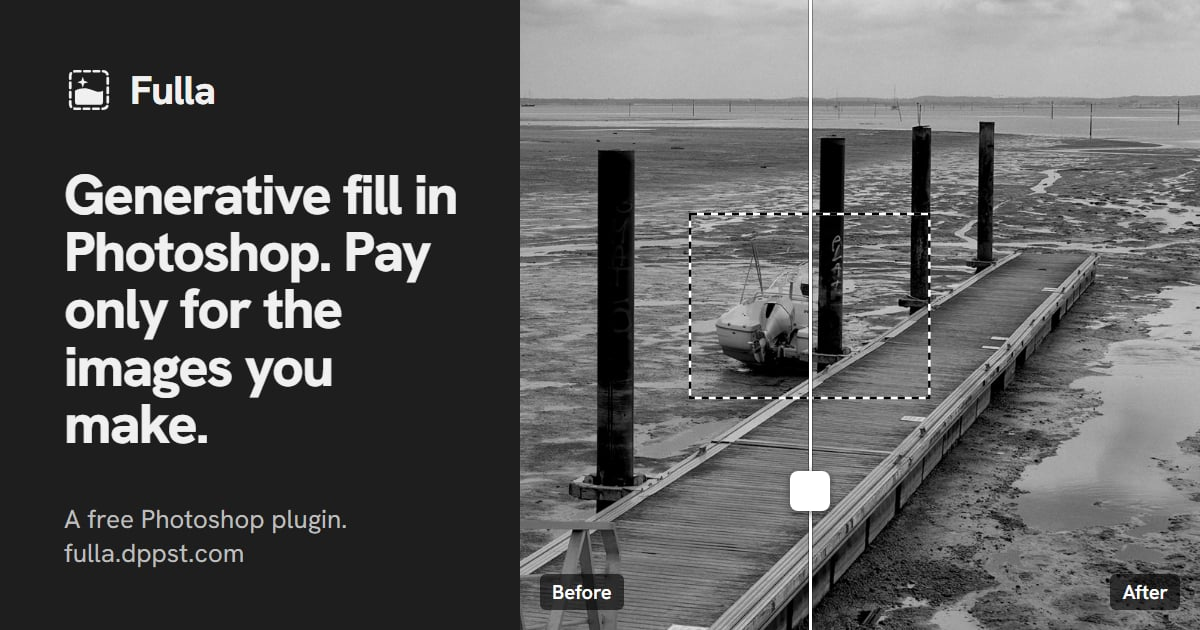
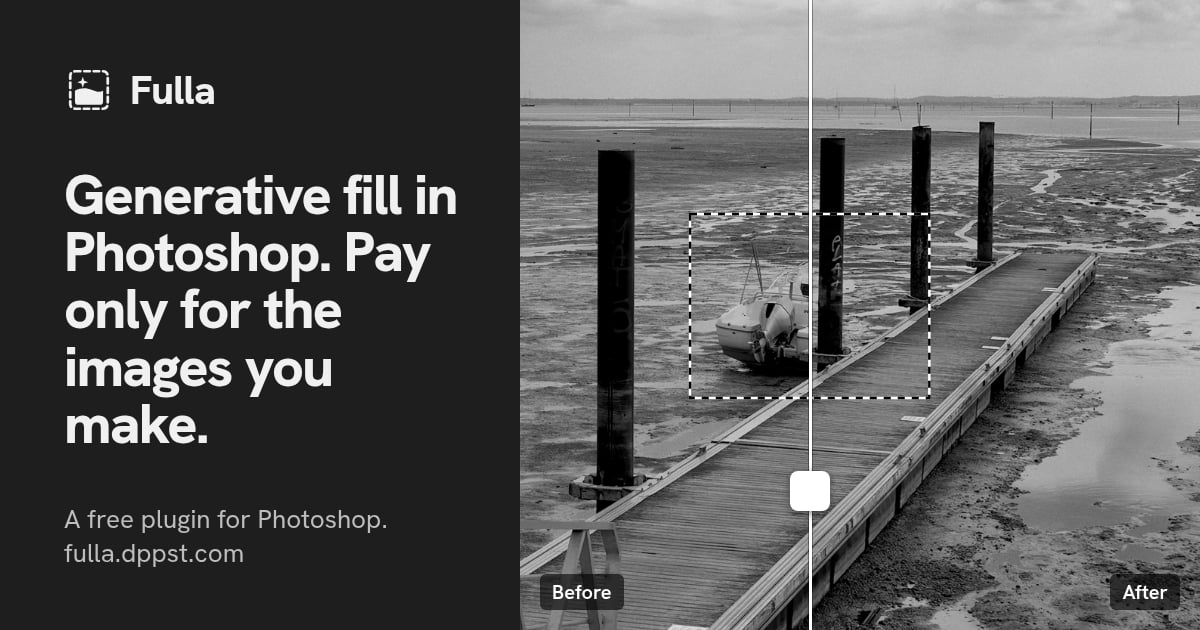
docs(site): say "plugin for Photoshop", as Adobe's branding rules ask

diff --git a/site/src/pages/llms.txt.ts b/site/src/pages/llms.txt.ts
@@ -9,7 +9,7 @@ export const GET: APIRoute = async () => {
 	const lines = [
 		'# Fulla',
 		'',
-		'> Fulla is a free, open-source Photoshop plugin for generative fill. Select an area, say what you want, click Generate, as with Photoshop\'s own generative fill. It uses your own account with an AI service (OpenRouter, Google or OpenAI) and you pay that service per image: no subscription, no credits. MIT licence.',
+		'> Fulla is a free, open-source generative fill plugin for Photoshop. Select an area, say what you want, click Generate, as with Photoshop\'s own generative fill. It uses your own account with an AI service (OpenRouter, Google or OpenAI) and you pay that service per image: no subscription, no credits. MIT licence.',
 		'',
 		`The whole guide in one file: ${SITE}/llms-full.txt`,
 		'',

diff --git a/site/scripts/og.html b/site/scripts/og.html
@@ -35,7 +35,7 @@ p { margin: 0; font-size: 26px; color: #bdbdbd; }
 <div class="text">
 <div class="brand"><svg viewBox="0 0 64 64"><rect x="8" y="8" width="48" height="48" rx="6" fill="none" stroke="#f0f0f0" stroke-width="3.5" stroke-dasharray="7 5" stroke-linecap="round"/><path d="M14 33c8-4 14-4 22-1s10 3 14 1v14a4 4 0 0 1-4 4H18a4 4 0 0 1-4-4z" fill="#f0f0f0"/><path d="M24 15l1.8 5.2L31 22l-5.2 1.8L24 29l-1.8-5.2L17 22l5.2-1.8z" fill="#f0f0f0"/></svg>Fulla</div>
 <h1>Generative fill in Photoshop. Pay only for the images you make.</h1>
-<p>A free Photoshop plugin.<br>fulla.dppst.com</p>
+<p>A free plugin for Photoshop.<br>fulla.dppst.com</p>
 </div>
 <div class="photo">
 <img src="../src/assets/examples/a1-apres.jpg" alt="">

diff --git a/site/src/pages/llms-full.txt.ts b/site/src/pages/llms-full.txt.ts
@@ -6,7 +6,7 @@ import { docsInOrder } from '../lib/docs-order';
 
 export const GET: APIRoute = async () => {
 	const docs = docsInOrder(await getCollection('docs'));
-	const intro = '# Fulla, the complete guide\n\nFulla is a free, open-source Photoshop plugin for generative fill, paid per image to the AI service you connect. Every page of the guide follows.\n';
+	const intro = '# Fulla, the complete guide\n\nFulla is a free, open-source generative fill plugin for Photoshop, paid per image to the AI service you connect. Every page of the guide follows.\n';
 	const body = [intro, ...docs.map(pageMarkdown)].join('\n---\n\n');
 	return new Response(body, { headers: { 'Content-Type': 'text/plain; charset=utf-8' } });
 };

diff --git a/site/src/pages/nano-banana-in-photoshop.md b/site/src/pages/nano-banana-in-photoshop.md
@@ -14,7 +14,7 @@ Adobe offers Nano Banana 2 and Nano Banana Pro as partner models in Photoshop's 
 
 ## With Fulla
 
-Fulla is a free, open-source Photoshop plugin. Its recommended model is **Nano Banana 2.1**, a newer version than the Nano Banana 2 in Photoshop's generative fill; it also offers **Nano Banana Pro** and, with a Google key, **Nano Banana 2 Lite**. You pay per image, about 5 cents for Nano Banana 2.1 at 1K or 2K, and see the cost of each run in dollars.
+Fulla is a free, open-source plugin for Photoshop. Its recommended model is **Nano Banana 2.1**, a newer version than the Nano Banana 2 in Photoshop's generative fill; it also offers **Nano Banana Pro** and, with a Google key, **Nano Banana 2 Lite**. You pay per image, about 5 cents for Nano Banana 2.1 at 1K or 2K, and see the cost of each run in dollars.
 
 | Model in Fulla | Through OpenRouter | With a Google key |
 | --- | --- | --- |

diff --git a/site/src/content/docs/docs/index.md b/site/src/content/docs/docs/index.md
@@ -9,7 +9,7 @@ head:
     attrs: { property: og:title, content: "Fulla guide: generative fill in Photoshop with your own AI" }
 ---
 
-Fulla is a free, open-source Photoshop plugin for generative fill. You select an area, say what you want, and click **Generate**, as with Photoshop's own generative fill. Fulla uses your own account with an AI service, and you pay that service per image: no subscription, no credits.
+Fulla is a free, open-source generative fill plugin for Photoshop. You select an area, say what you want, and click **Generate**, as with Photoshop's own generative fill. Fulla uses your own account with an AI service, and you pay that service per image: no subscription, no credits.
 
 ## Where to start
 

diff --git a/README.md b/README.md
@@ -7,7 +7,7 @@
 
 **Generative fill in Photoshop. Pay only for the images you make.**
 
-Fulla is a free Photoshop plugin. Select an area, say what you want, click Generate: just like Photoshop's own generative fill, with your own account at an AI service (OpenRouter, Google or OpenAI). From about 5 cents an image, no subscription, no credits.
+Fulla is a free plugin for Photoshop. Select an area, say what you want, click Generate: just like Photoshop's own generative fill, with your own account at an AI service (OpenRouter, Google or OpenAI). From about 5 cents an image, no subscription, no credits.
 
 ![A pier at low tide, before and after a moored boat is removed with Fulla](site/public/og.jpg)
 

diff --git a/site/src/pages/gpt-image-in-photoshop.md b/site/src/pages/gpt-image-in-photoshop.md
@@ -6,7 +6,7 @@ description: Use OpenAI's GPT Image models for generative fill in Photoshop with
 updated: 2026-11-13
 ---
 
-GPT Image is OpenAI's family of image models. With Fulla, a free Photoshop plugin, you can use them for generative fill: select an area, describe what you want, and click Generate. You pay per image, through OpenRouter or with your own OpenAI key.
+GPT Image is OpenAI's family of image models. With Fulla, a free plugin for Photoshop, you can use them for generative fill: select an area, describe what you want, and click Generate. You pay per image, through OpenRouter or with your own OpenAI key.
 
 ## Which GPT Image models does Fulla offer?
 

diff --git a/site/src/pages/about.md b/site/src/pages/about.md
@@ -6,7 +6,7 @@ updated: 2026-11-16
 kind: about
 ---
 
-Fulla is a free, open-source Photoshop plugin for generative fill, made by Stéphane Depierrepont, a developer and photographer.
+Fulla is a free, open-source generative fill plugin for Photoshop, made by Stéphane Depierrepont, a developer and photographer.
 
 ## Who makes it?
 
